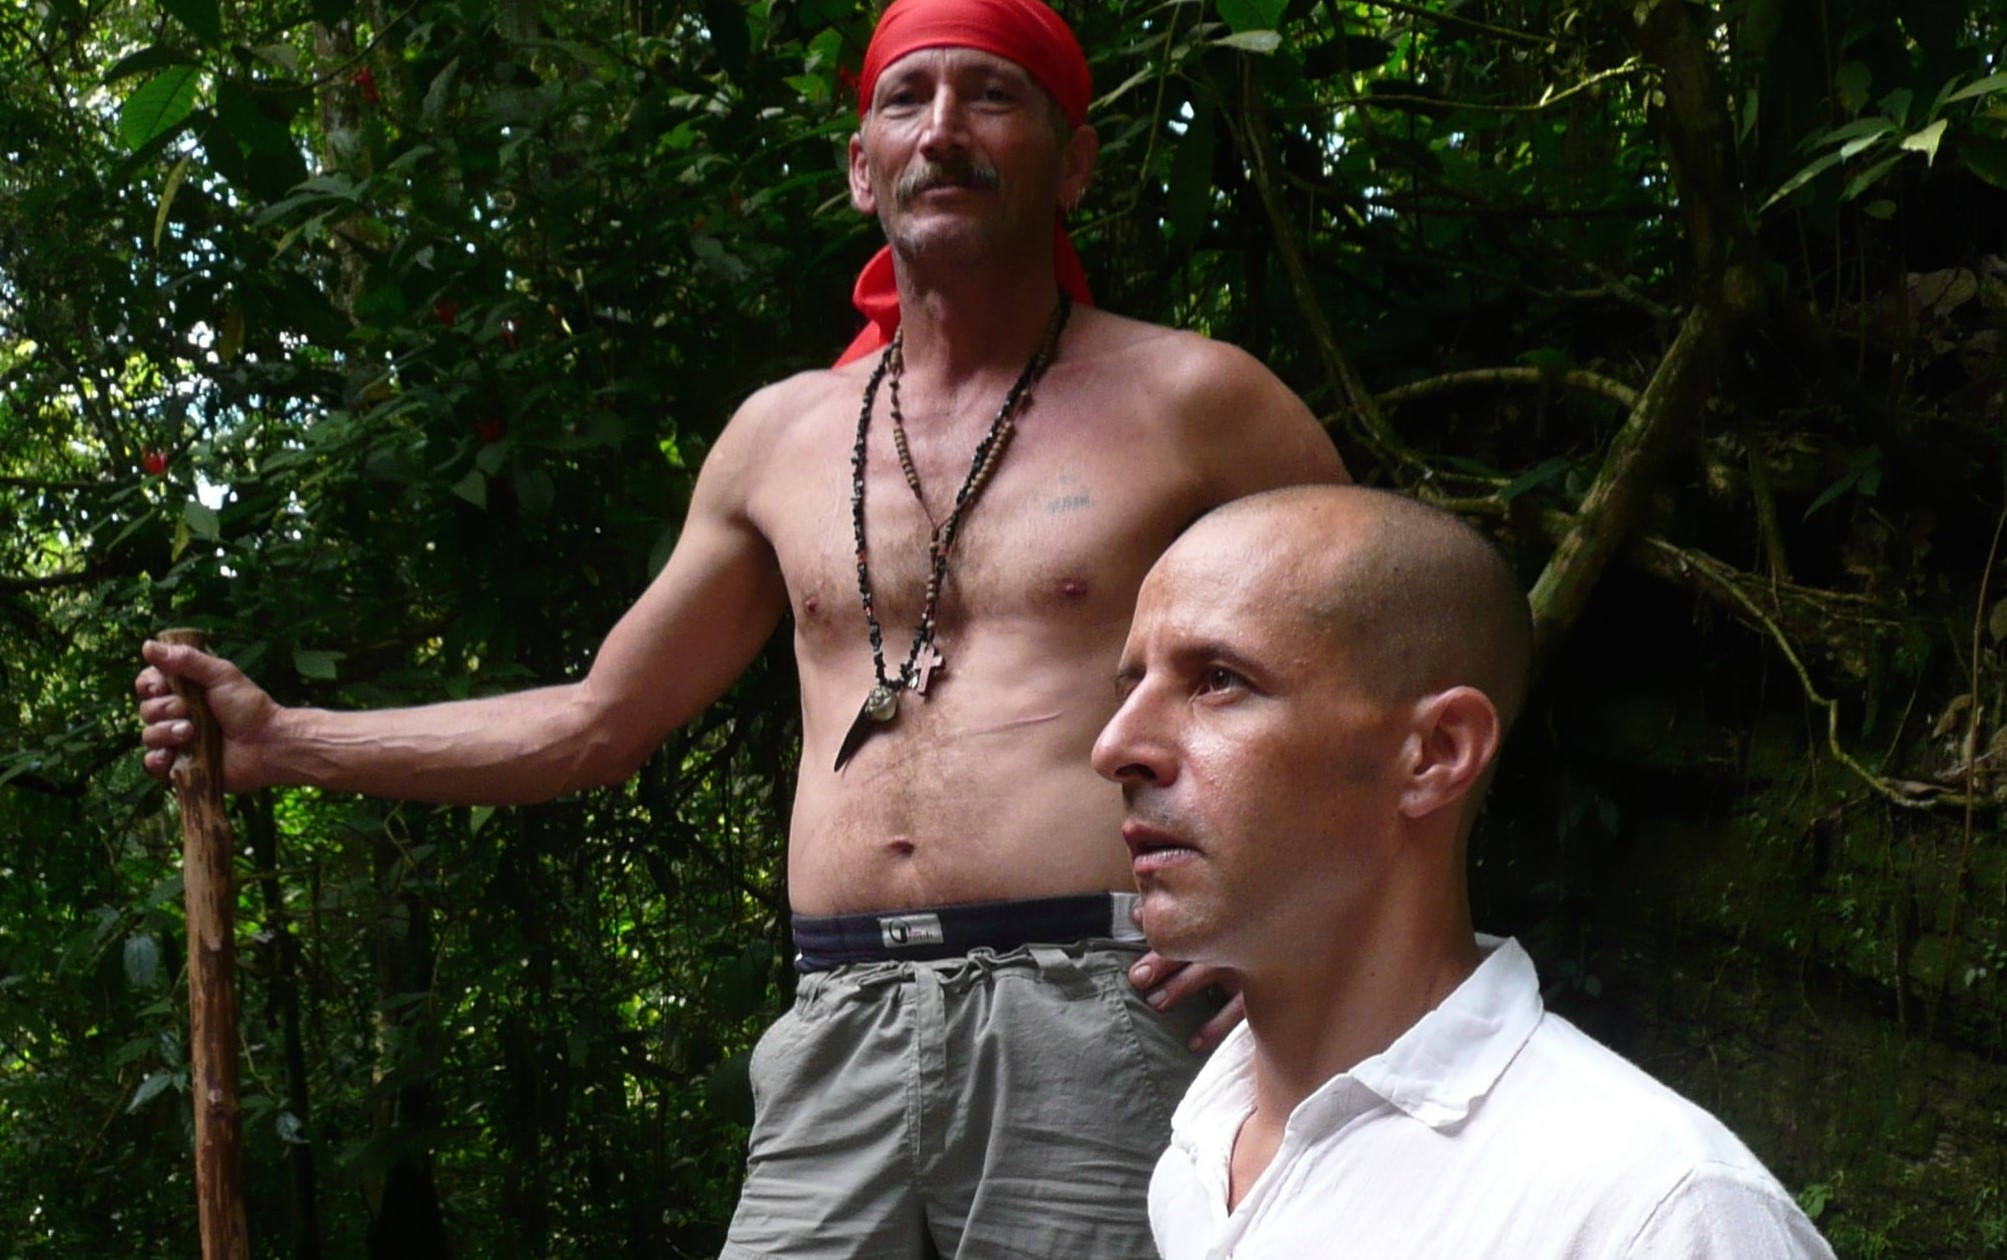
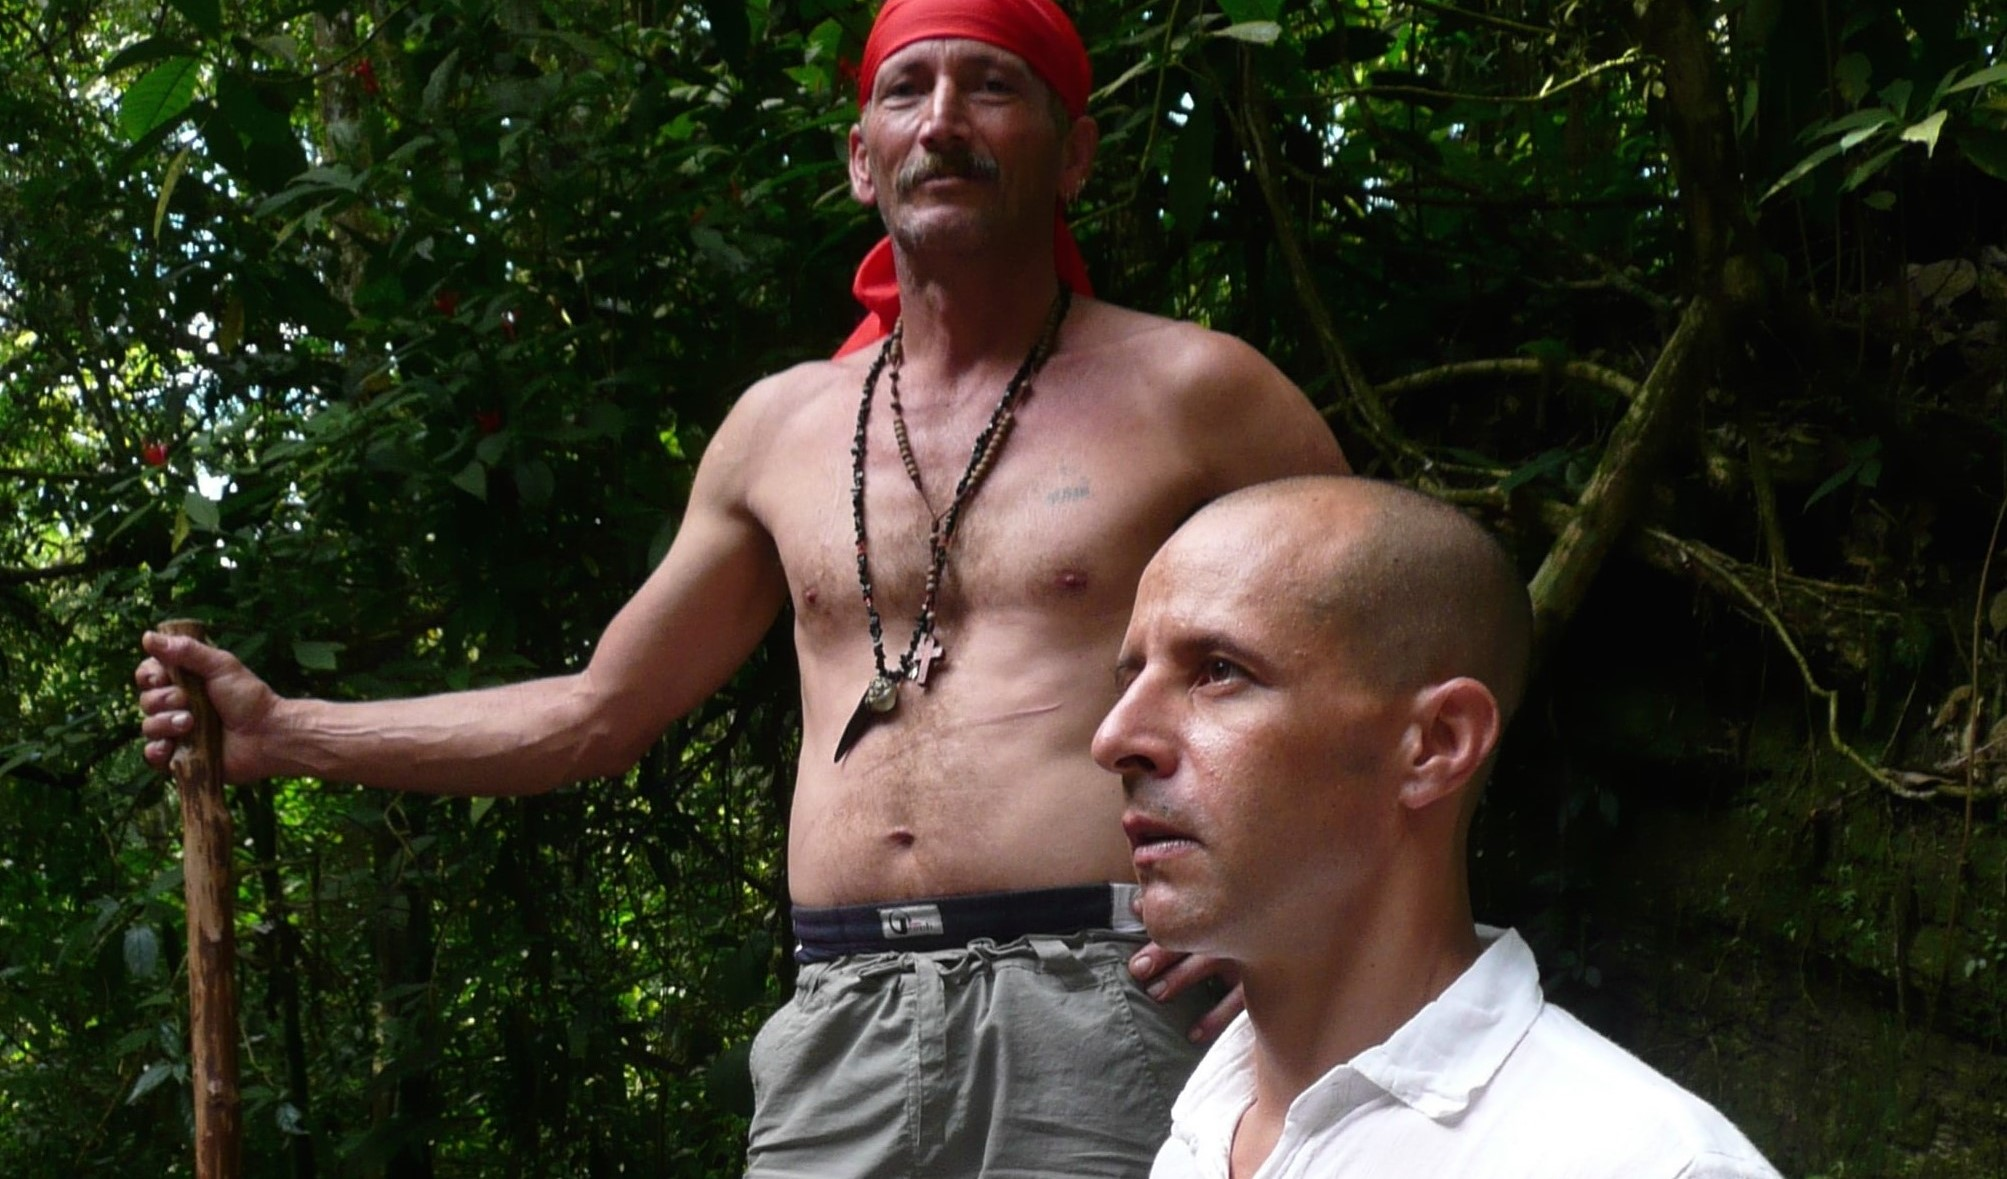
Modify images biografia template and agenda template

diff --git a/wp-content/themes/cristobalj/style.css b/wp-content/themes/cristobalj/style.css
@@ -2654,7 +2654,7 @@ input.wpcf7-form-control.wpcf7-submit {
   }
   /*Bio page slider styles*/
   .rslides, .psicoteatro-slide {
-    max-height: 500px;
+    max-height: 580px;
   }
   /*Prezi embed styles*/
   #prezi-viewer {
@@ -3552,7 +3552,7 @@ input.wpcf7-form-control.wpcf7-submit {
 }
 
 .calendar div.ai1ec-agenda-view a > div.ai1ec-month{
-  background: #175d39;
+  background: #e89a02;
 }
 .calendar #ai1ec-calendar-view{
   height: 200px;
@@ -3583,7 +3583,7 @@ input.wpcf7-form-control.wpcf7-submit {
   border: none;
 }
 .calendar div.ai1ec-clearfix a.ai1ec-minical-trigger.ai1ec-btn.ai1ec-btn-sm.ai1ec-btn-default.ai1ec-tooltip-trigger{
-  background: #175d39;
+  background: #e89a02;
   color: #FFF;
   border-radius: 10px;
 }
@@ -3802,7 +3802,7 @@ text-align: center !important;
    .ai1ec-dropdown-toggle {
       padding-right: 0 !important;
    }
-   #datesContainer {
+   #datesContainer, .agenda #datesContainer {
      height: 400px;
    }
    #main-news header > h1{
@@ -3837,6 +3837,9 @@ text-align: center !important;
    }
    .n2-ss-swipe-element {
      height: 400px !important;
+   }
+   .agenda #datesContainer {
+     max-width: 100%;
    }
  }
 
@@ -3910,16 +3913,18 @@ text-align: center !important;
   display: block;
   margin: 0 auto;
 }
-#new_agenda .ai1ec-agenda-view {
-  padding: 2em 4em;
-}
-#new_agenda .ai1ec-date {
-  margin-bottom: .5em;
-}
-#new_agenda .ai1ec-event-avatar img {
-  width: 60%;
-  display: inline-block;
-  max-height: 350px;
+@media screen and (min-width: 768px) {
+  #new_agenda .ai1ec-agenda-view {
+    padding: 2em 4em;
+  }
+  #new_agenda .ai1ec-date {
+    margin-bottom: .5em;
+  }
+  #new_agenda .ai1ec-event-avatar img {
+    width: 60%;
+    display: inline-block;
+    max-height: 350px;
+  }
 }
 #prox_events {
   background-color: #f5f5f5;
@@ -4141,79 +4146,7 @@ text-align: center !important;
   -o-transition: background-image .65s ease-out;
   transition: background-image .65s ease-out;
 }
-#new_agenda .ai1ec-month-view th {
-  font-family: "ACaslonPro-regular" !important;
-  background: #f8b101 !important;
-  font-weight: lighter !important;
-  color: #fff !important;
-  font-size: 17px;
-}
-#new_agenda .ai1ec-month-view td {
-  border: 1px solid #f8b101 !important;
-}
-#new_agenda .ai1ec-date {
-  text-align: left !important;
-  font-size: 1.32em !important;
-  color: #f8b101 !important;
-  margin-top: 16px !important;
-  background-color: transparent !important;
-}
-#new_agenda .ai1ec-date > .ai1ec-load-view {
-    color: #f8b101 !important;
-    font-weight: 900 !important;
-}
-#new_agenda #ag , #new_agenda .calendar .ai1ec-calendar-toolbar{
-  border: 4px solid #e89a02;
-  border-bottom: 24px solid #e89a02;
-  padding: 0 !important
-}
-#new_agenda .calendar .ai1ec-calendar-toolbar , #new_agenda .ai1ec-btn-toolbar{
-  background: #e89a02 !important;
-  margin-bottom: 0 !important;
-   text-shadow: 2px 2px 8px rgba(0,0,0,0.5) !important;
-   border-radius: 0!important;
-}
- #new_agenda .ai1ec-btn-toolbar {
-   padding-top: 0 !important;
 
- }
-#new_agenda .ai1ec-dropdown-toggle {
-  text-shadow: 4px 4px 10px rgba(255,255,255,0.5) !important;
-  padding: 5px 10px !important;
-}
-
-#new_agenda .ai1ec-title-buttons {
-  justify-content: center;
-  display: flex;
-}
-#new_agenda .ai1ec-pagination a {
-  color: #FFF !important;
-  text-shadow:2px 2px 8px rgba(0,0,0,0.65);
-  font-size: 20px;
-}
-#new_agenda .ai1ec-prev-year {
-  left: -4em;
-}
-#new_agenda .ai1ec-next-year {
-  position: relative !important;
-  display: block !important;
-  right: -3.5em;
-}
-#new_agenda .calendar div.ai1ec-clearfix a.ai1ec-minical-trigger.ai1ec-btn.ai1ec-btn-sm.ai1ec-btn-default.ai1ec-tooltip-trigger {
-  background: none !important;
-  font-size: 23px;
-}
-#new_agenda .calendar div.ai1ec-clearfix a.ai1ec-minical-trigger.ai1ec-btn.ai1ec-btn-sm.ai1ec-btn-default.ai1ec-tooltip-trigger span {
-  font-size: 23px;
-}
-#new_agenda #datesContainer {
-  box-shadow: 0 4px 15px 0 rgba(0, 0, 0, 0.2), 0 6px 30px 0 rgba(0, 0, 0, 0.19);
-  overflow-y: none;
-}
-
-#new_agenda .ai1ec-clearfix .ai1ec-pull-right {
-  display: none !important;
-}
 .main-navigation ul ul a {
   background: #002983;
 }
@@ -4221,6 +4154,79 @@ text-align: center !important;
 @media screen and (min-width: 768px) {
   #new_agenda #datesContainer {
     margin-top: 6em !important;
+  }
+  #new_agenda .ai1ec-month-view th {
+    font-family: "ACaslonPro-regular" !important;
+    background: #f8b101 !important;
+    font-weight: lighter !important;
+    color: #fff !important;
+    font-size: 17px;
+  }
+  #new_agenda .ai1ec-month-view td {
+    border: 1px solid #f8b101 !important;
+  }
+  #new_agenda .ai1ec-date {
+    text-align: left !important;
+    font-size: 1.32em !important;
+    color: #f8b101 !important;
+    margin-top: 16px !important;
+    background-color: transparent !important;
+  }
+  #new_agenda .ai1ec-date > .ai1ec-load-view {
+      color: #f8b101 !important;
+      font-weight: 900 !important;
+  }
+  #new_agenda #ag , #new_agenda .calendar .ai1ec-calendar-toolbar{
+    border: 4px solid #e89a02;
+    border-bottom: 24px solid #e89a02;
+    padding: 0 !important
+  }
+  #new_agenda .calendar .ai1ec-calendar-toolbar , #new_agenda .ai1ec-btn-toolbar{
+    background: #e89a02 !important;
+    margin-bottom: 0 !important;
+     text-shadow: 2px 2px 8px rgba(0,0,0,0.5) !important;
+     border-radius: 0!important;
+  }
+   #new_agenda .ai1ec-btn-toolbar {
+     padding-top: 0 !important;
+
+   }
+  #new_agenda .ai1ec-dropdown-toggle {
+    text-shadow: 4px 4px 10px rgba(255,255,255,0.5) !important;
+    padding: 5px 10px !important;
+  }
+
+  #new_agenda .ai1ec-title-buttons {
+    justify-content: center;
+    display: flex;
+  }
+  #new_agenda .ai1ec-pagination a {
+    color: #FFF !important;
+    text-shadow:2px 2px 8px rgba(0,0,0,0.65);
+    font-size: 20px;
+  }
+  #new_agenda .ai1ec-prev-year {
+    left: -4em;
+  }
+  #new_agenda .ai1ec-next-year {
+    position: relative !important;
+    display: block !important;
+    right: -3.5em;
+  }
+  #new_agenda .calendar div.ai1ec-clearfix a.ai1ec-minical-trigger.ai1ec-btn.ai1ec-btn-sm.ai1ec-btn-default.ai1ec-tooltip-trigger {
+    background: none !important;
+    font-size: 23px;
+  }
+  #new_agenda .calendar div.ai1ec-clearfix a.ai1ec-minical-trigger.ai1ec-btn.ai1ec-btn-sm.ai1ec-btn-default.ai1ec-tooltip-trigger span {
+    font-size: 23px;
+  }
+  #new_agenda #datesContainer {
+    box-shadow: 0 4px 15px 0 rgba(0, 0, 0, 0.2), 0 6px 30px 0 rgba(0, 0, 0, 0.19);
+    overflow-y: none;
+  }
+
+  #new_agenda .ai1ec-clearfix .ai1ec-pull-right {
+    display: none !important;
   }
 
 }
@@ -4243,11 +4249,15 @@ text-align: center !important;
   color: #fff;
   font-weight: normal;
 }
+
+
+}
 @media screen and (min-width: 2000px) {
   .sub-menu li a:hover{
     width: 318px !important;
     }
 }
+
 /* Botón Ir Arriba
 ----------------------------------------------- */
 #IrArriba {
@@ -4284,4 +4294,7 @@ background: url(http://lh5.googleusercontent.com/-luDGEoQ_WZE/T1Ak-gta5MI/AAAAAA
    .sub-menu li:last-child a::before {
      content: '\f03d' !important;
    }
+}
+#datesContainer {
+  border-radius: 10px; 
 }

diff --git a/wp-content/themes/cristobalj/js/theme-scripts.js b/wp-content/themes/cristobalj/js/theme-scripts.js
@@ -85,7 +85,7 @@ jQuery(document).ready(function(){
     }
     else if (paises[i].text == "     Etiquetas:  ") {
       console.log("tmbiem")
-      paises[i].innerHTML = '<i class="fa fa-archive" aria-hidden="true"></i> Talleres de estudio'
+      paises[i].innerHTML = '<i class="fa fa-archive" aria-hidden="true"></i> Temas'
     }
     else if (paises[i].text == "   Agenda   ") {
       paises[i].style.display = "none"
@@ -425,4 +425,9 @@ jQuery(document).ready(function(){
     });
 
     });
+    
+    if (window.matchMedia('(max-width: 767px)').matches) {
+      $('#primary').removeClass("agenda");
+      console.log("No mames ");
+    }
 })(jQuery);

diff --git a/wp-content/themes/cristobalj/page-biografia.php b/wp-content/themes/cristobalj/page-biografia.php
@@ -6,7 +6,7 @@ get_header(); ?>
 <div id="primary" class="biografia content-area">
   <main id="main" class="site-main">
     <ul class="psicoteatro-slide">
-      <li class="pslide"><img src="<?php echo get_template_directory_uri(); ?>/images/cristobal/biografia/01.jpg" alt=""></li>
+      <li class="pslide"><img src="<?php echo get_template_directory_uri(); ?>/images/cristobal/biografia/01.jpeg" alt=""></li>
       <li class="pslide"><img src="<?php echo get_template_directory_uri(); ?>/images/cristobal/biografia/02.JPG" alt=""></li>
       <li class="pslide"><img src="<?php echo get_template_directory_uri(); ?>/images/cristobal/biografia/09.jpg" alt=""></li>
       <li class="pslide"><img src="<?php echo get_template_directory_uri(); ?>/images/cristobal/biografia/12.png" alt=""></li>
